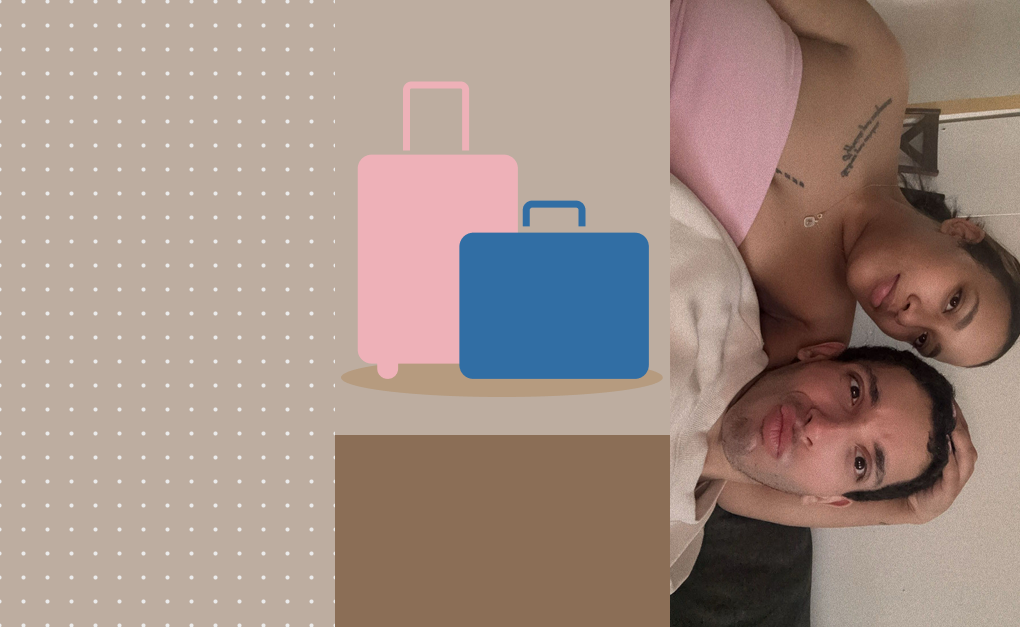
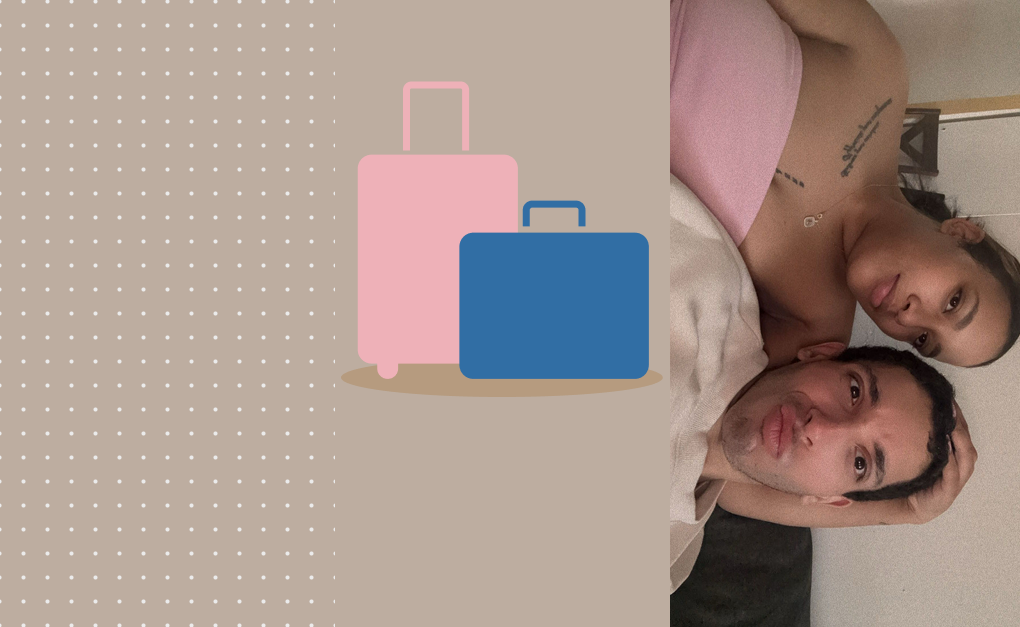
Fixed styling.

Changed region(s): [[0.3039, 0.6667, 0.6686, 1.0]]

diff --git a/src/pages/TGT_Footer/TGT_Footer.css b/src/pages/TGT_Footer/TGT_Footer.css
@@ -9,7 +9,7 @@
 .tgt-footer-inner {
   width: 100%;
   text-align: center;
-  height: 60vh;
+  height: 30vh;
   display: flex;
   flex-direction: column;
   justify-content: flex-end;
@@ -24,6 +24,7 @@
 }
 
 .tgt-footer-image {
+  position: relative;
   width: 100%;
   display: flex;
   justify-content: center;
@@ -31,18 +32,19 @@
 }
 
 .tgt-footer-image img {
+  position: relative;
+  z-index: 1;
   max-width: 100%;
   height: auto;
 }
 
-.tgt-subfooter-text {
-  margin: 0;
-  font-size: 0.85rem;
-  color: #ffffff;
-}
-
 .tgt-footer-text {
-  margin: 0;
+  position: absolute;
+  font-weight: 600;
+  top: 50%;
+  left: 50%;
+  transform: translate(-50%, -50%);
+  z-index: 3;
   font-size: 0.95rem;
 }
 

diff --git a/src/pages/TGT_Footer/TGT_Footer.js b/src/pages/TGT_Footer/TGT_Footer.js
@@ -6,6 +6,7 @@ const TGT_Footer = () => {
     <footer className="tgt-footer" data-testid="tgt-footer">
       <div className="tgt-footer-inner">
         <div className="tgt-footer-image">
+          <p className="tgt-footer-text">Build More. Get Rejected Less.</p>
           <img src="/assets/TGT_Footer_Img.svg" alt="Target footer" />
         </div>
       </div>
